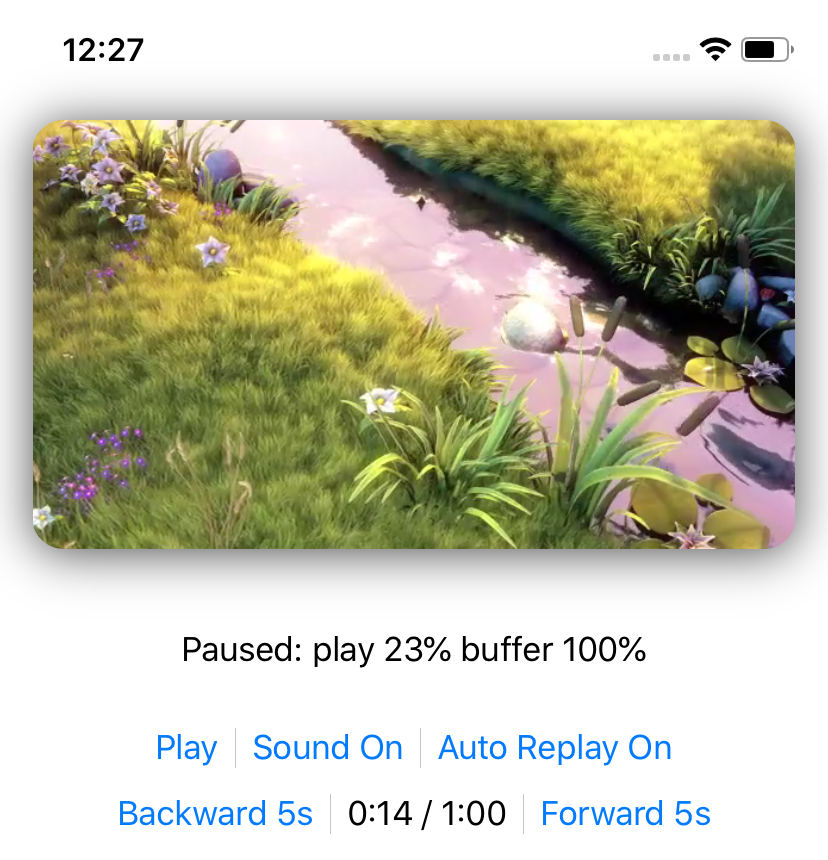
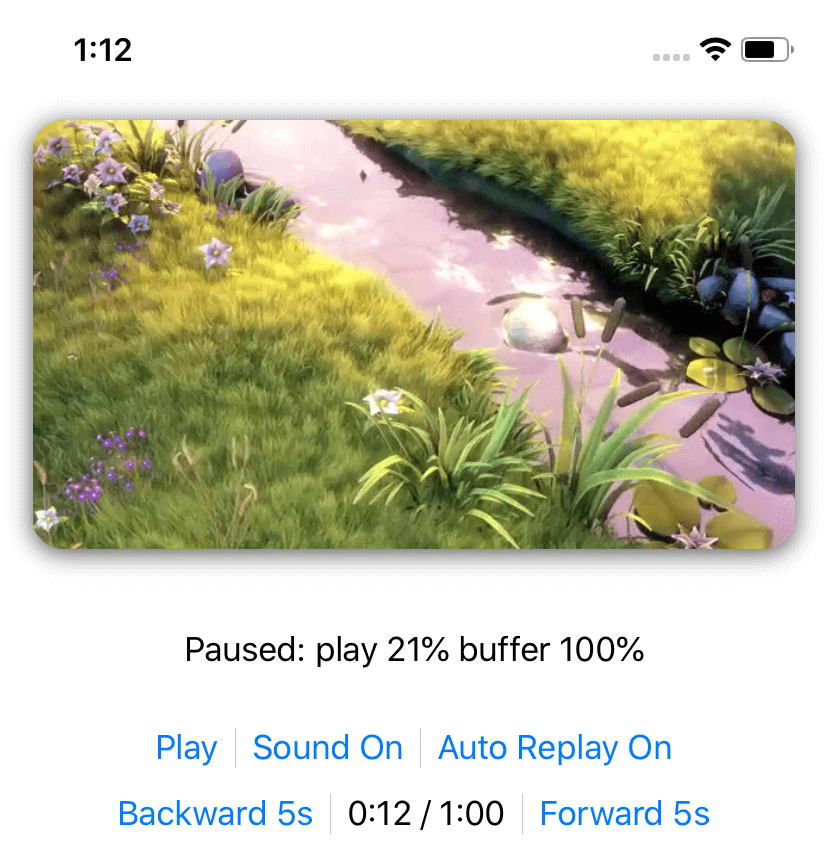
feat: beautify demo

diff --git a/Demo/ContentView.swift b/Demo/ContentView.swift
@@ -41,7 +41,7 @@ struct ContentView : View {
                 }
                 .aspectRatio(1.78, contentMode: .fit)
                 .cornerRadius(16)
-                .shadow(color: Color.black.opacity(0.7), radius: 12, x: 0, y: 2)
+                .shadow(color: Color.black.opacity(0.7), radius: 6, x: 0, y: 2)
                 .padding()
             
             Text(stateText)
